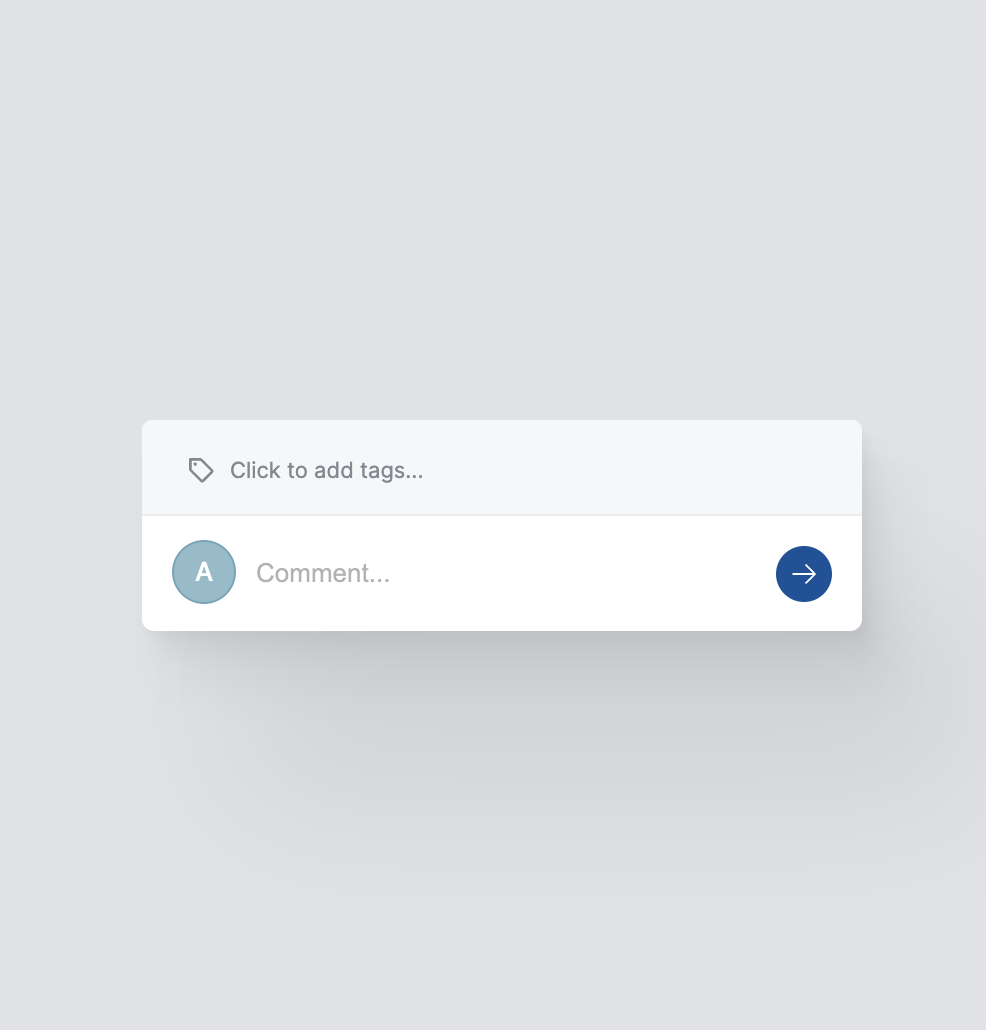
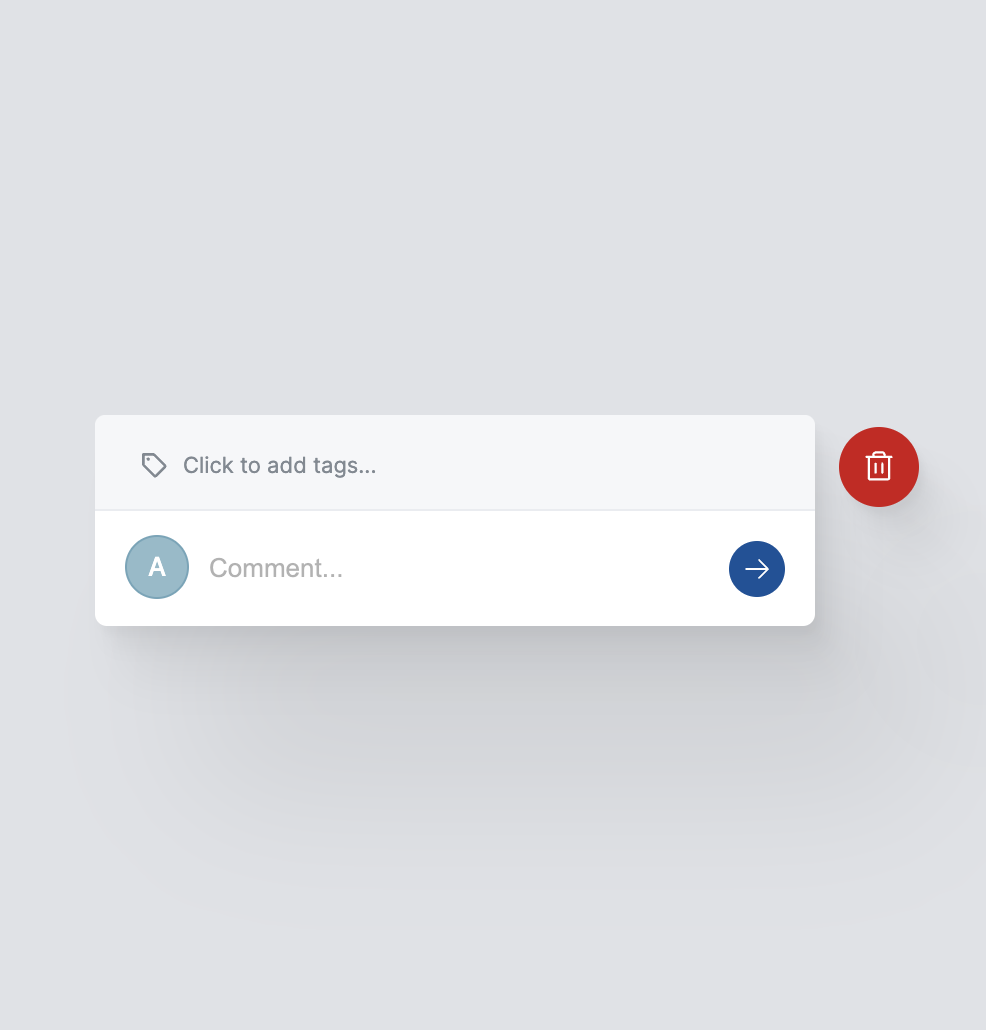
Added 'being created by' state

Changed region(s): [[0.0913, 0.4039, 0.9432, 0.6214], [0.1521, 0.435, 0.426, 0.466]]

diff --git a/src/AnnotationPopup/LockedInitial.css b/src/AnnotationPopup/LockedInitial.css
@@ -1,0 +1,57 @@
+.annotation-popup.locked {
+  padding: 10px;
+}
+
+.annotation-popup.locked .actions {
+  display: none;
+}
+
+.annotation-popup.locked .writing {
+  padding: 25px 0 15px 18px;
+  display: flex;
+  justify-content: flex-start;
+  --dot-color: var(--font-light);
+}
+
+
+/* https://codepen.io/nzbin/pen/GGrXbp */
+/**
+ * ==============================================
+ * Dot Typing
+ * ==============================================
+ */
+ .dot-typing {
+  position: relative;
+  left: -9999px;
+  width: 5px;
+  height: 5px;
+  border-radius: 5px;
+  background-color: var(--dot-color);
+  color: var(--dot-color);
+  box-shadow: 9989px 0 0 0 var(--dot-color), 9999px 0 0 0 var(--dot-color), 10009px 0 0 0 var(--dot-color);
+  animation: dot-typing 1.2s infinite linear;
+}
+
+@keyframes dot-typing {
+  0% {
+    box-shadow: 9989px 0 0 0 var(--dot-color), 9999px 0 0 0 var(--dot-color), 10009px 0 0 0 var(--dot-color);
+  }
+  16.667% {
+    box-shadow: 9989px -5px 0 0 var(--dot-color), 9999px 0 0 0 var(--dot-color), 10009px 0 0 0 var(--dot-color);
+  }
+  33.333% {
+    box-shadow: 9989px 0 0 0 var(--dot-color), 9999px 0 0 0 var(--dot-color), 10009px 0 0 0 var(--dot-color);
+  }
+  50% {
+    box-shadow: 9989px 0 0 0 var(--dot-color), 9999px -5px 0 0 var(--dot-color), 10009px 0 0 0 var(--dot-color);
+  }
+  66.667% {
+    box-shadow: 9989px 0 0 0 var(--dot-color), 9999px 0 0 0 var(--dot-color), 10009px 0 0 0 var(--dot-color);
+  }
+  83.333% {
+    box-shadow: 9989px 0 0 0 var(--dot-color), 9999px 0 0 0 var(--dot-color), 10009px -5px 0 0 var(--dot-color);
+  }
+  100% {
+    box-shadow: 9989px 0 0 0 var(--dot-color), 9999px 0 0 0 var(--dot-color), 10009px 0 0 0 var(--dot-color);
+  }
+}

diff --git a/src/AnnotationPopup/EmptyPopup.css b/src/AnnotationPopup/EmptyPopup.css
@@ -9,7 +9,7 @@
 .delete {
   align-items: center;
   background-color: var(--red-500);
-  border: 1px solid var(--gray-300);
+  border: none;
   border-radius: 50%;
   box-shadow:
     2.4px 3.9px 3.3px rgba(0, 0, 0, 0.034),
@@ -17,6 +17,7 @@
     15.7px 25.9px 22px rgba(0, 0, 0, 0.046),
     52px 86px 73px rgba(0, 0, 0, 0.07);
   color: #fff;
+  cursor: pointer;
   display: flex;
   height: 40px;
   justify-content: center;
@@ -25,6 +26,6 @@
   pointer-events: all;
   position: absolute;
   right: -52px;
-  top: 58px;
+  top: 6px;
   width: 40px;
 }

diff --git a/src/index.tsx b/src/index.tsx
@@ -2,8 +2,9 @@ import { createRoot } from 'react-dom/client';
 import { AnnotationPopup } from './AnnotationPopup';
 import { PrivateAnnotationPopup } from './AnnotationPopup';
 import { EmptyPopup } from './AnnotationPopup';
+import { LockedInitial } from './AnnotationPopup/LockedInitial';
 
 import './index.css';
 
 const root = createRoot(document.getElementById('root'));
-root.render(<EmptyPopup />);
+root.render(<LockedInitial />);

diff --git a/src/AnnotationPopup/LockedInitial.tsx b/src/AnnotationPopup/LockedInitial.tsx
@@ -1,0 +1,17 @@
+import { BodyHeader } from './BodyHeader';
+
+import './AnnotationPopup.css';
+import './LockedInitial.css';
+
+export const LockedInitial = () => {
+
+  return (
+    <div className="annotation-popup locked">
+      <BodyHeader user="aboutgeo" />
+      <div className="writing">
+        <div className="dot-typing" />
+      </div>
+    </div>
+  )
+
+}

diff --git a/src/AnnotationPopup/BodyHeader/BodyHeader.tsx b/src/AnnotationPopup/BodyHeader/BodyHeader.tsx
@@ -17,7 +17,7 @@ export const BodyHeader = (props: { user: string }) => {
         </address>
 
         <div className="annotation-body-created-at">
-          <time>2 weeks ago</time>
+          <time>just now</time>
         </div>
       </div>
 
